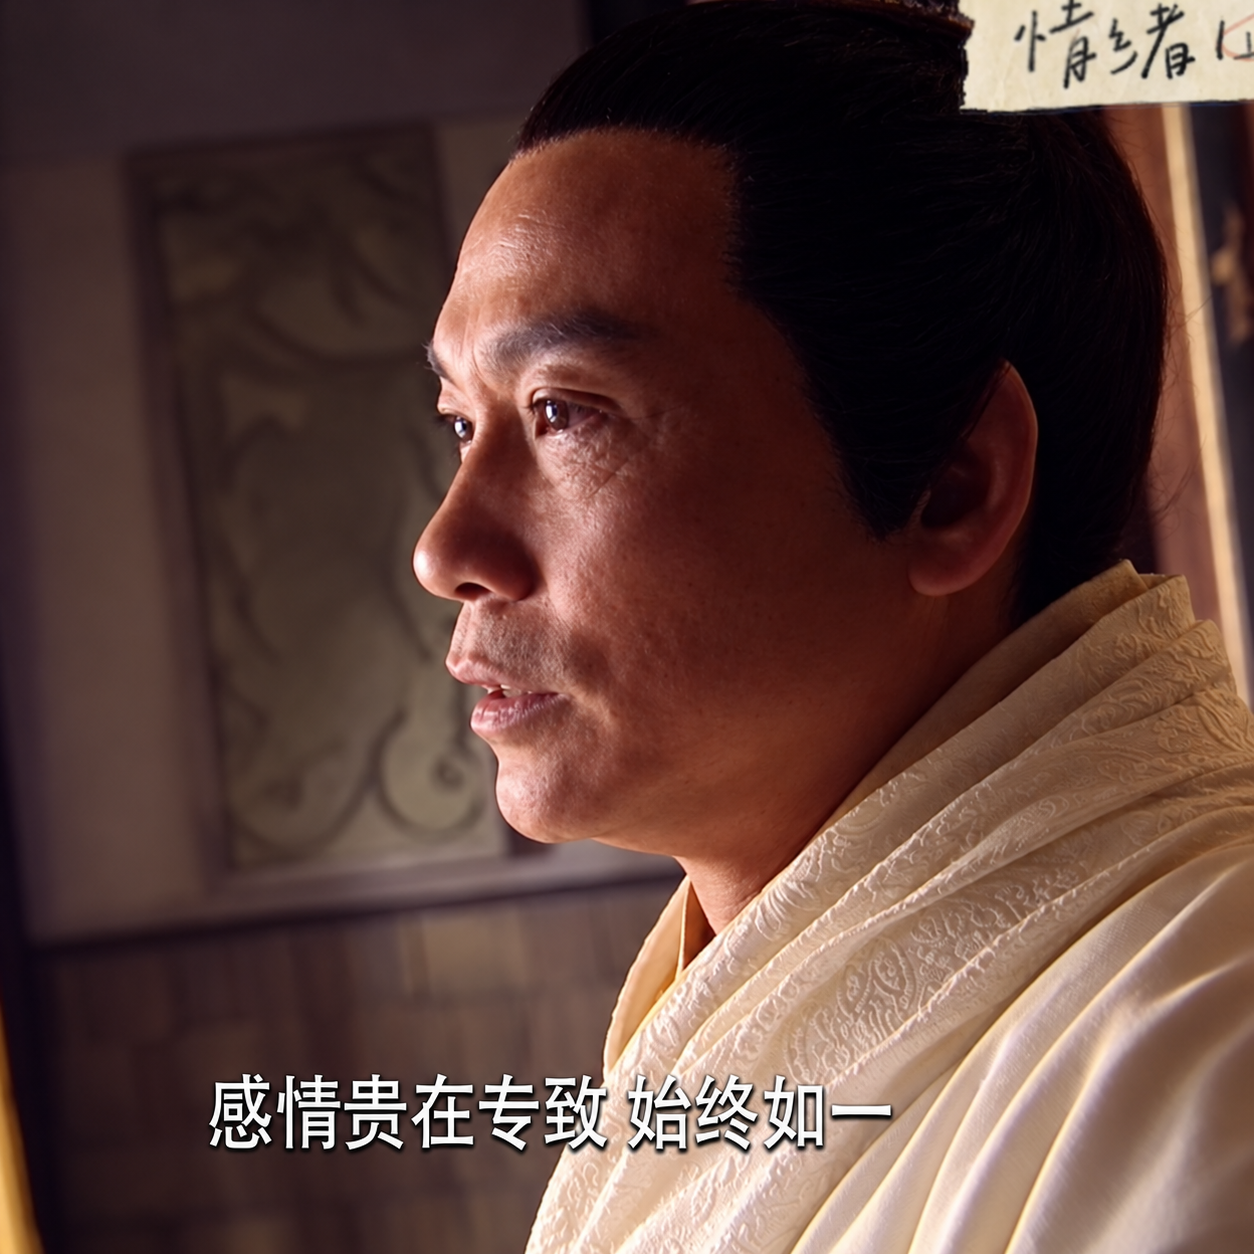
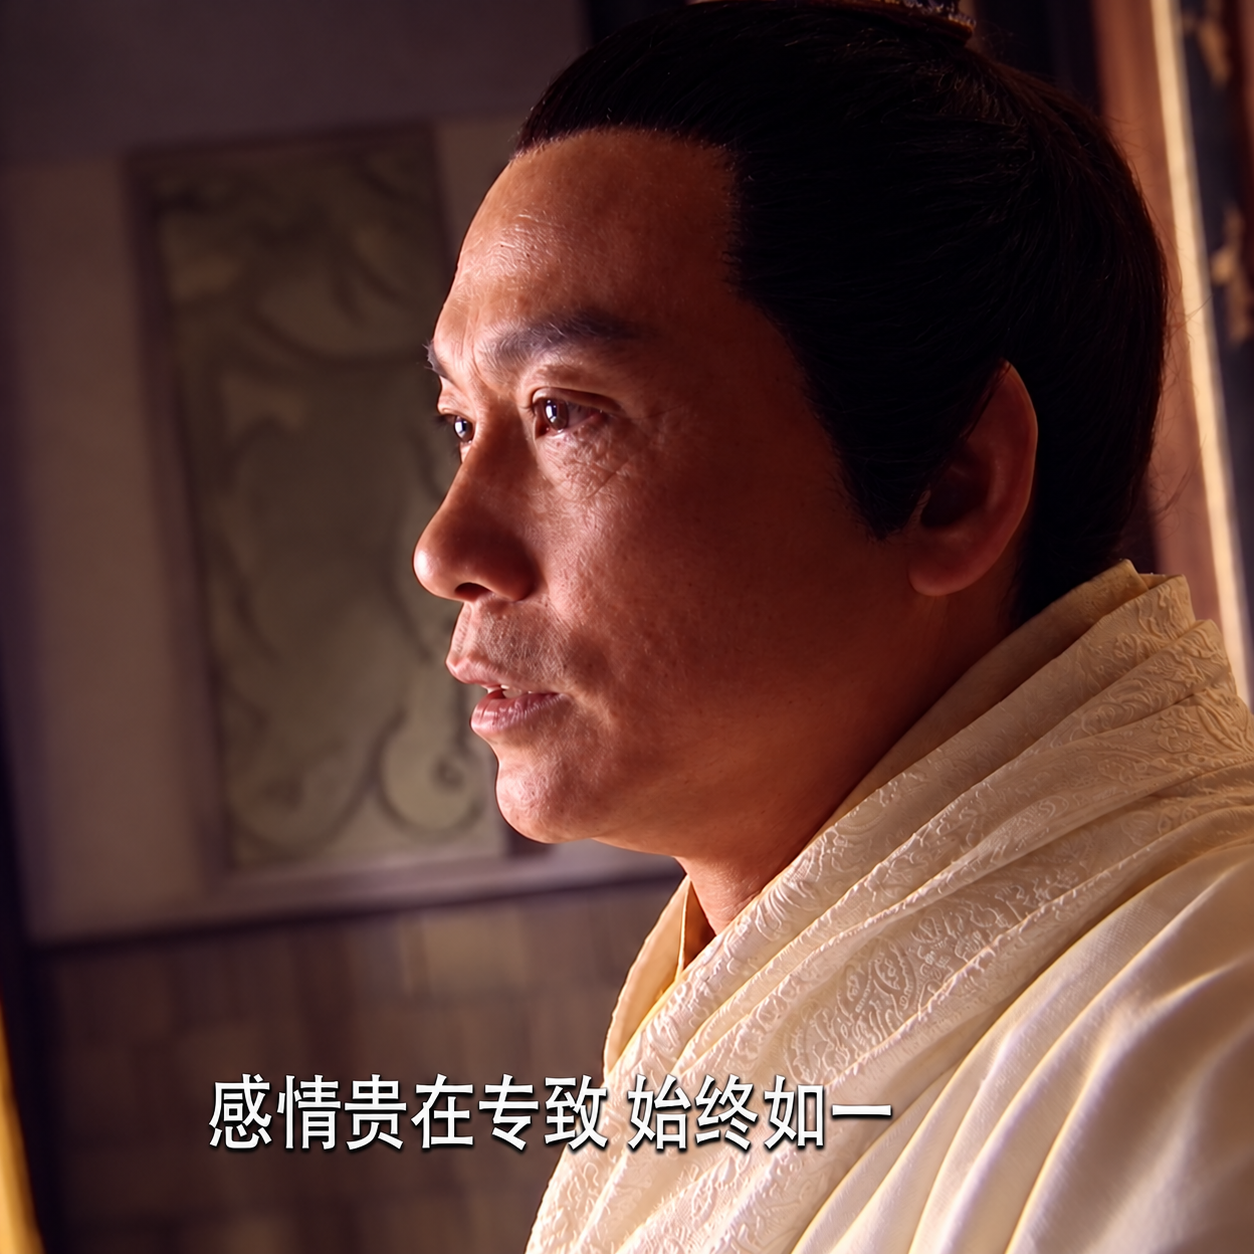
Remove corner text overlay from Chinese Paladin gallery still

diff --git a/_pages/about.md b/_pages/about.md
@@ -2592,8 +2592,8 @@ document.querySelectorAll(".video-cover[data-video-src]").forEach(function (cove
       <figcaption><em>The Big Bang Theory</em> — “I am a man of science.”</figcaption>
     </figure>
     <figure>
-      <a href="/images/chinese-paladin-devotion-enhanced.png" target="_blank" rel="noopener" aria-label="View the enhanced Chinese Paladin still at full size">
-        <img src="/images/chinese-paladin-devotion-enhanced.png" alt="Chinese Paladin TV still with the Chinese subtitle 感情贵在专致 始终如一" width="1254" height="1254" loading="lazy" decoding="async">
+      <a href="/images/chinese-paladin-devotion-enhanced.png?v=clean-corner" target="_blank" rel="noopener" aria-label="View the enhanced Chinese Paladin still at full size">
+        <img src="/images/chinese-paladin-devotion-enhanced.png?v=clean-corner" alt="Chinese Paladin TV still with the Chinese subtitle 感情贵在专致 始终如一" width="1254" height="1254" loading="lazy" decoding="async">
       </a>
       <figcaption><em>Chinese Paladin (仙剑奇侠传)</em> — <span lang="zh-Hans">“感情贵在专致，始终如一。”</span><br>Love calls for devotion, steadfast from beginning to end.<br><small>AI-enhanced TV still.</small></figcaption>
     </figure>
